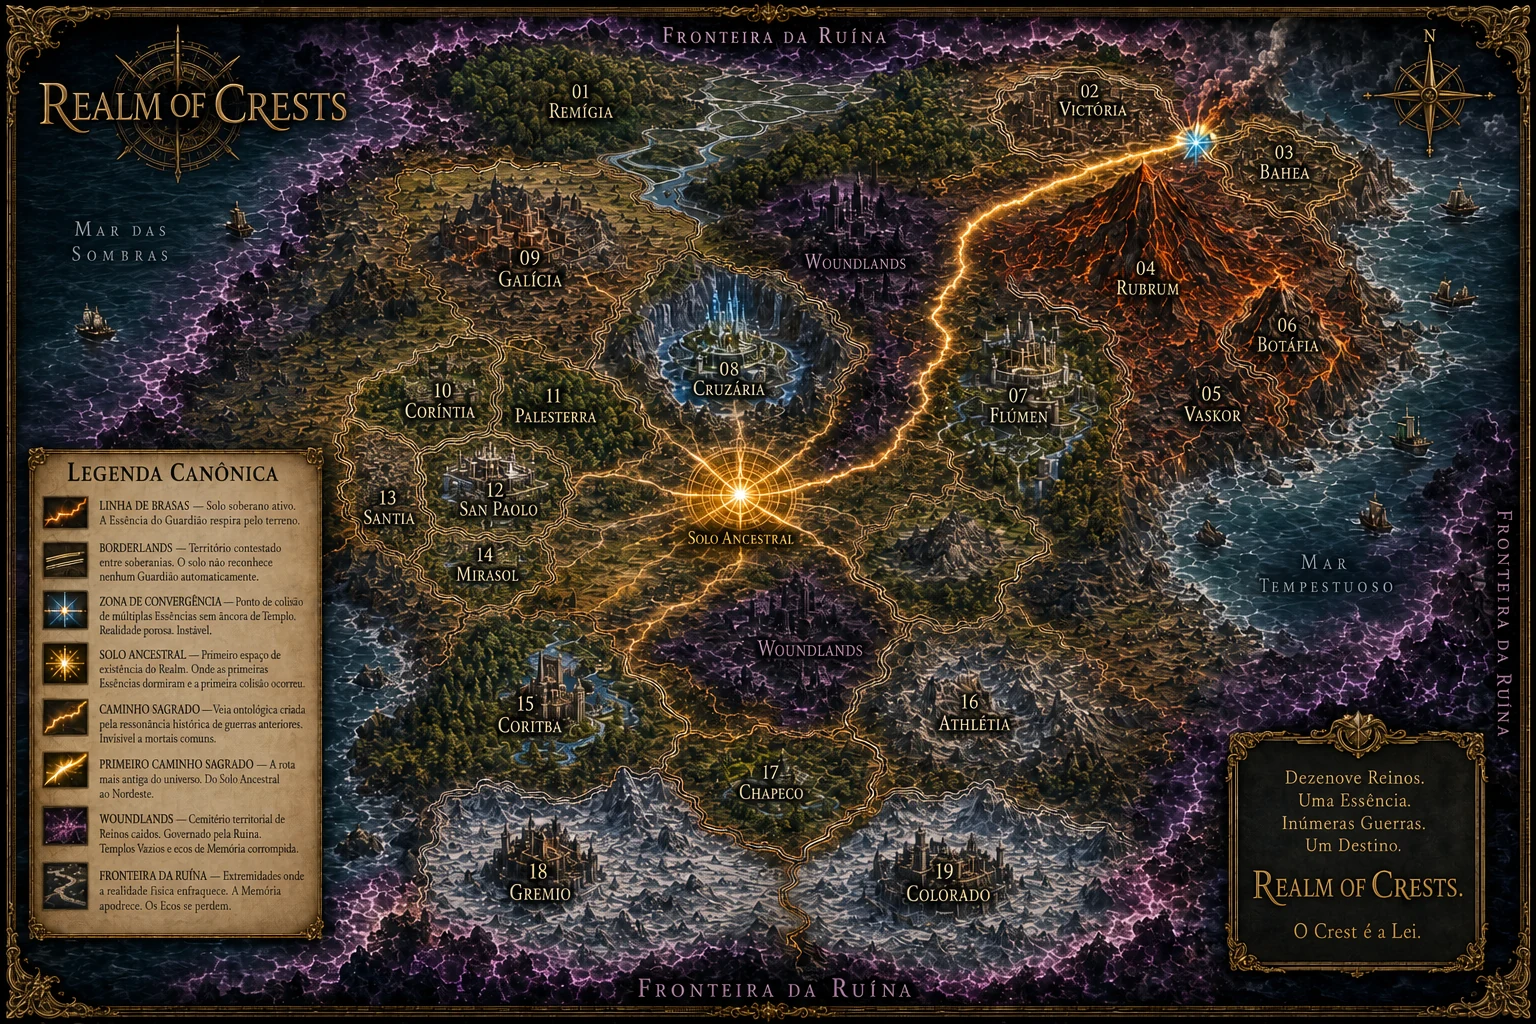
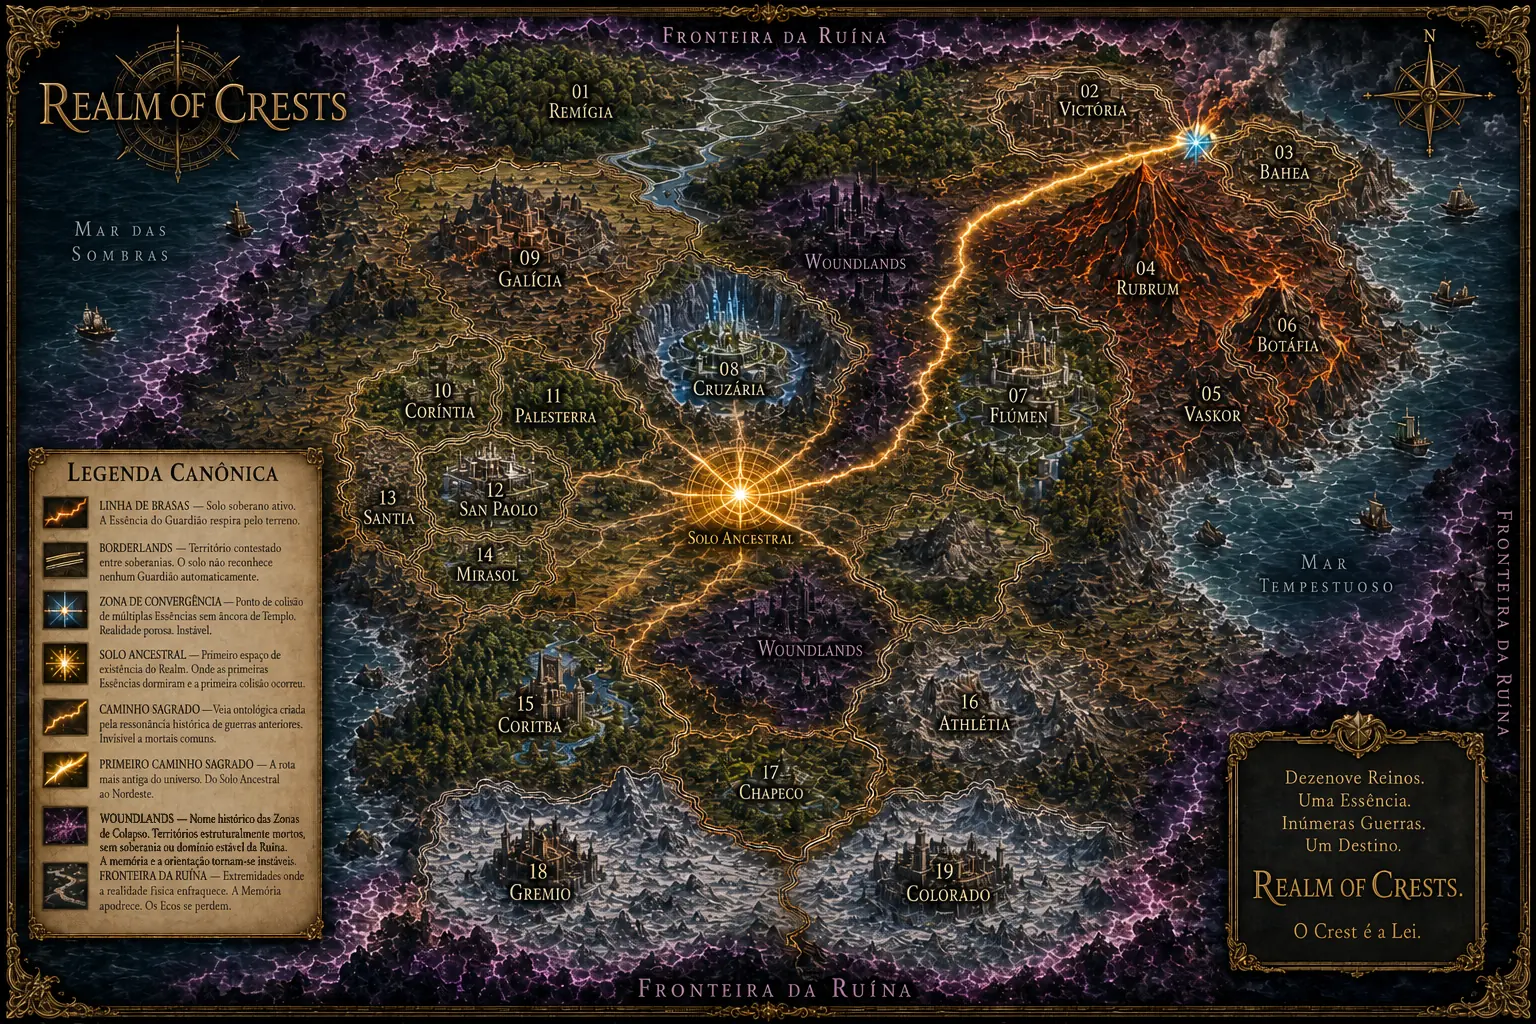
fix: align phase 6 with cartographic erratum

Changed region(s): [[0.0625, 0.7812, 0.1875, 0.8438]]

diff --git a/src/lib/canon.js b/src/lib/canon.js
@@ -6,11 +6,11 @@ import sources from '../data/sources.json';
 
 const a = sources.authority;
 
-export const LORE_MASTER = a.loreMaster.version_at_sync;        // ex.: "3.0.4"
-export const DOSSIER = a.guardiansDossier.version_at_sync;      // ex.: "2.4"
+export const LORE_MASTER = a.loreMaster.version_at_sync;        // ex.: "3.0.6"
+export const DOSSIER = a.guardiansDossier.version_at_sync;      // ex.: "2.6"
 
 // Rótulos prontos, em minúsculas (registro editorial das rubricas)
-export const canonLabel = `canon v${LORE_MASTER}`;              // "canon v3.0.4"
+export const canonLabel = `canon v${LORE_MASTER}`;              // "canon v3.0.6"
 export const loreMasterLabel = `lore master canon v${LORE_MASTER}`;
 export const dossierLabel = `dossiê dos guardiões v${DOSSIER}`;
 

diff --git a/src/lib/fervor.js b/src/lib/fervor.js
@@ -1,5 +1,6 @@
 // Fervor reativo — mapa canônico: tipo dominante → assinatura visual.
-// Fonte das cores: legenda visual dos sete tipos (Lore Master v3.0.4, Livro II).
+// Fonte das cores: oito Fervores ativos (Lore Master v3.0.6, Livro II;
+// CC-27 v1.3; CC-31 v1.0; Guia de Produção Digital v1.2).
 // O tipo dominante é extraído do campo `fervor` do realms.json ("Fervor de X (dominante) / ...").
 
 const FERVOR_SIGNATURES = {

diff --git a/RELEASES.md b/RELEASES.md
@@ -1,8 +1,22 @@
 # Realm of Crests — Registro de versões do site
 
+## v1.2.13 — 2026-07-21
+
+Status: **Fase 6.1 validada em branch; implantação pública pendente**.
+
+- Integra o Mapa Canônico do Continente v1.1 como errata cartográfica derivada do cânone consolidado.
+- Corrige exclusivamente o verbete Woundlands; geografia, rotas, marcadores e enquadramento permanecem inalterados.
+- Regenera apenas os derivados WebP do mapa e preserva panoramas territoriais e emblemas.
+- Restaura as margens responsivas do herói do Diário.
+- Normaliza referências técnicas para Lore Master v3.0.6, Dossiê v2.6, CC-27 v1.3 e CC-31 v1.0.
+
+Gate local: **PASS** — Fases 0–6, build de 48 páginas e auditoria do artefato aprovados.
+
+Verificação pública desktop/mobile: **PENDENTE** — será executada após o push na prévia isolada da Fase 6.
+
 ## v1.2.12 — 2026-07-19
 
-Status: **Fase 0 validada em branch; implantação pública pendente**.
+Status: **superada em preview pela v1.2.13; não integrada à `main`**.
 
 - Ativa os masters SVG, os derivados monocromáticos e os PDFs técnicos v1.0 dos oito Fervores.
 - Sincroniza os dois ponteiros públicos do site com o `roc-source-registry v1.2.12`.

diff --git a/docs/UX_PHASE_6_RELEASE_CANDIDATE.md b/docs/UX_PHASE_6_RELEASE_CANDIDATE.md
@@ -58,3 +58,11 @@ O toolchain do release candidate usa Node 22 e Astro 7.1.1. Astro permanece em `
 - [ ] Metadados `noindex` confirmados na prévia.
 - [ ] Aprovação explícita para integração na `main`.
 - [ ] Tag e ponto de restauração definidos antes do merge.
+
+## Fase 6.1 — errata cartográfica
+
+- O master cartográfico avança para v1.1 por errata textual derivada do cânone já consolidado.
+- A geografia, as rotas, os marcadores, os territórios e o enquadramento permanecem inalterados.
+- O verbete Woundlands deixa de atribuir soberania à Ruína e passa a registrar instabilidade de memória e orientação.
+- Apenas os dois WebP do mapa foram regenerados; panoramas territoriais e emblemas permanecem intactos.
+- O herói do Diário volta a herdar as margens responsivas de `wide-wrap` em desktop e mobile.